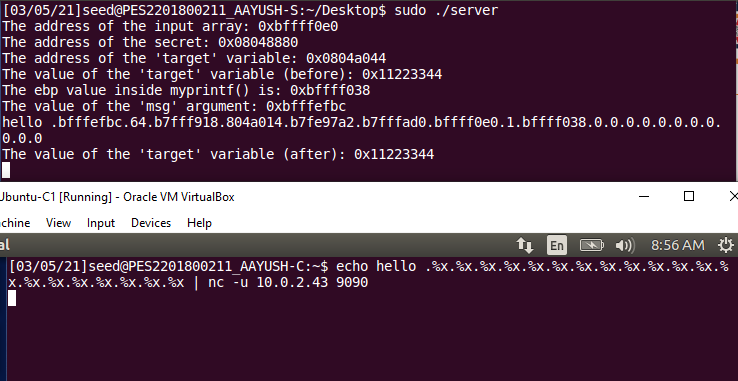
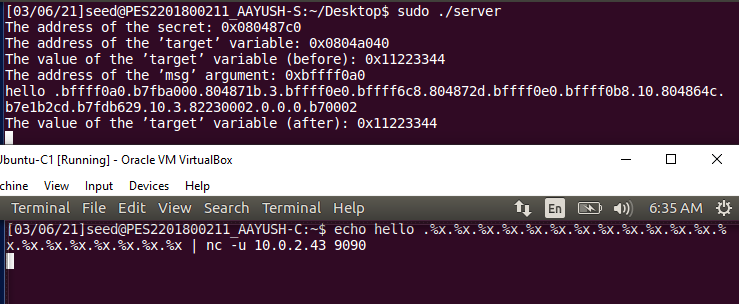
updated commit

Changed region(s): [[0.0, 0.0, 1.0, 1.0]]

diff --git a/LAB 5 - Format String/server.c b/LAB 5 - Format String/server.c
@@ -4,46 +4,28 @@
 #include <string.h>
 #include <sys/socket.h>
 #include <netinet/ip.h>
-#define PORT 9090
 
-/* Changing this size will change the layout of the stack.
-* We have added 2 dummy arrays: in main() and myprintf().
-* Instructors can change this value each year, so students
-* won't be able to use the solutions from the past.
-* Suggested value: between 0 and 300 */
-#ifndef DUMMY_SIZE
-#define DUMMY_SIZE 100
-#endif
+#define PORT 9090
 
 char *secret = "A secret message\n";
 unsigned int target = 0x11223344;
 
-
 void myprintf(char *msg)
 {
-    uintptr_t framep;
-    // Copy the ebp value into framep, and print it out
-    asm("movl %%ebp, %0" : "=r"(framep));
-    printf("The ebp value inside myprintf() is: 0x%.8x\n", framep);
-    /* Change the size of the dummy array to randomize the parameters
-    for this lab. Need to use the array at least once */
-    char dummy[DUMMY_SIZE]; memset(dummy, 0, DUMMY_SIZE);
+    printf("The address of the ’msg’ argument: 0x%.8x\n", (unsigned) &msg);
     // This line has a format-string vulnerability
-    printf("The value of the 'msg' argument: 0x%.8x\n", (unsigned) &msg);
-    //printf("%s",msg);
     printf(msg);
-    printf("The value of the 'target' variable (after): 0x%.8x\n", target);
+    printf("The value of the ’target’ variable (after): 0x%.8x\n", target);
 }
-/* This function provides some helpful information. It is meant to
-* simplify the lab tasks. In practice, attackers need to figure
-* out the information by themselves. */
-
+// This function provides some helpful information. It is meant to
+// simplify the lab task. In practice, attackers need to figure
+// out the information by themselves.
 void helper()
 {
     printf("The address of the secret: 0x%.8x\n", (unsigned) secret);
-    printf("The address of the 'target' variable: 0x%.8x\n",
+    printf("The address of the ’target’ variable: 0x%.8x\n",
     (unsigned) &target);
-    printf("The value of the 'target' variable (before): 0x%.8x\n", target);
+    printf("The value of the ’target’ variable (before): 0x%.8x\n", target);
 }
 
 void main()
@@ -52,10 +34,6 @@ void main()
     struct sockaddr_in client;
     int clientLen;
     char buf[1500];
-    /* Change the size of the dummy array to randomize the parameters
-    for this lab. Need to use the array at least once */
-    char dummy[DUMMY_SIZE]; memset(dummy, 0, DUMMY_SIZE);
-    printf("The address of the input array: 0x%.8x\n", (unsigned) buf);
     helper();
     int sock = socket(AF_INET, SOCK_DGRAM, IPPROTO_UDP);
     memset((char *) &server, 0, sizeof(server));
@@ -69,6 +47,6 @@ void main()
         recvfrom(sock, buf, 1500-1, 0,
         (struct sockaddr *) &client, &clientLen);
         myprintf(buf);
-    }
+        }
     close(sock);
 }
